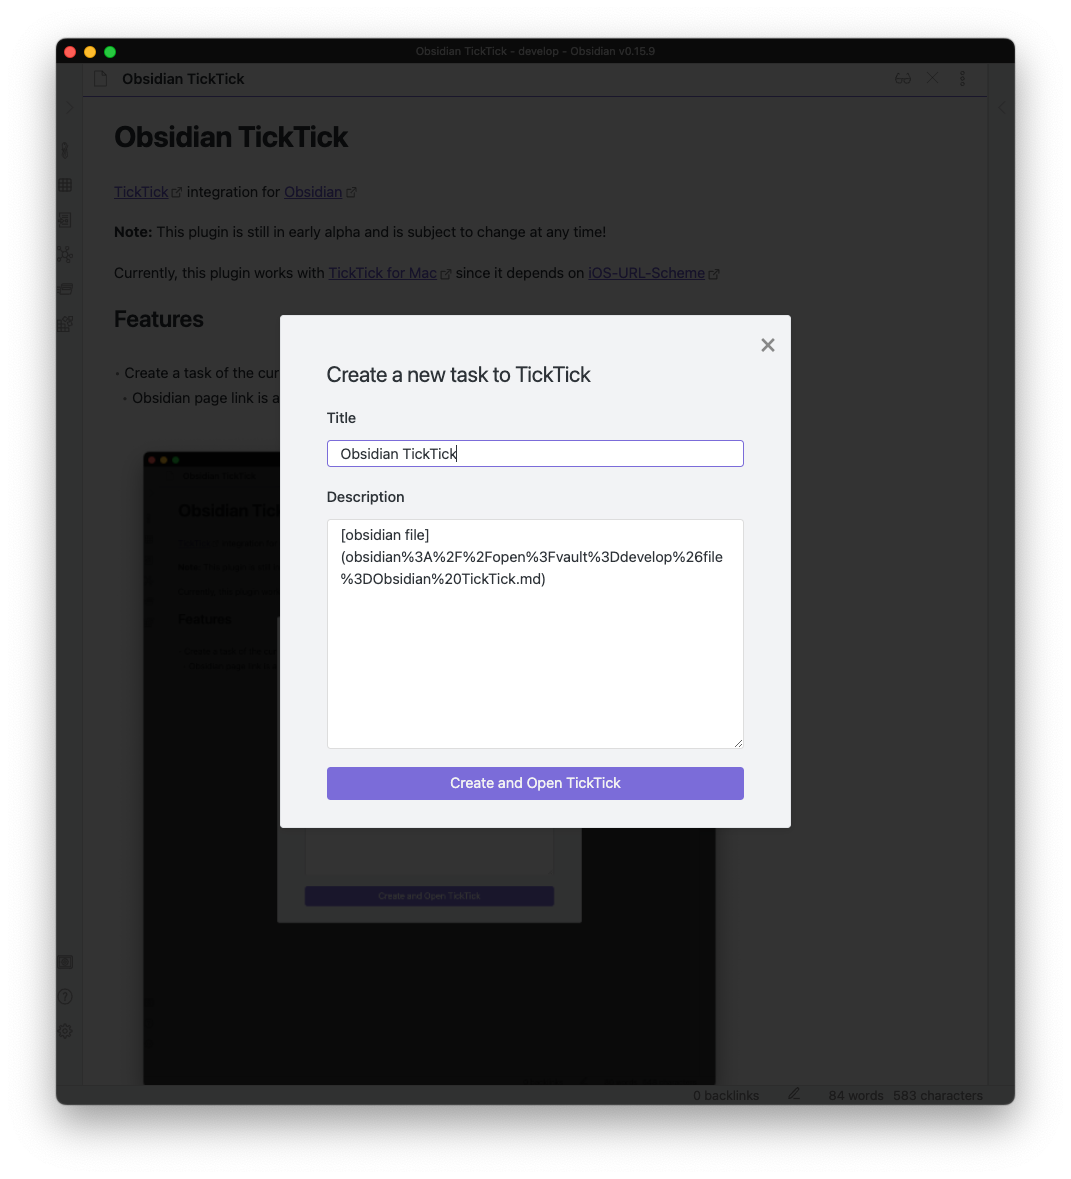
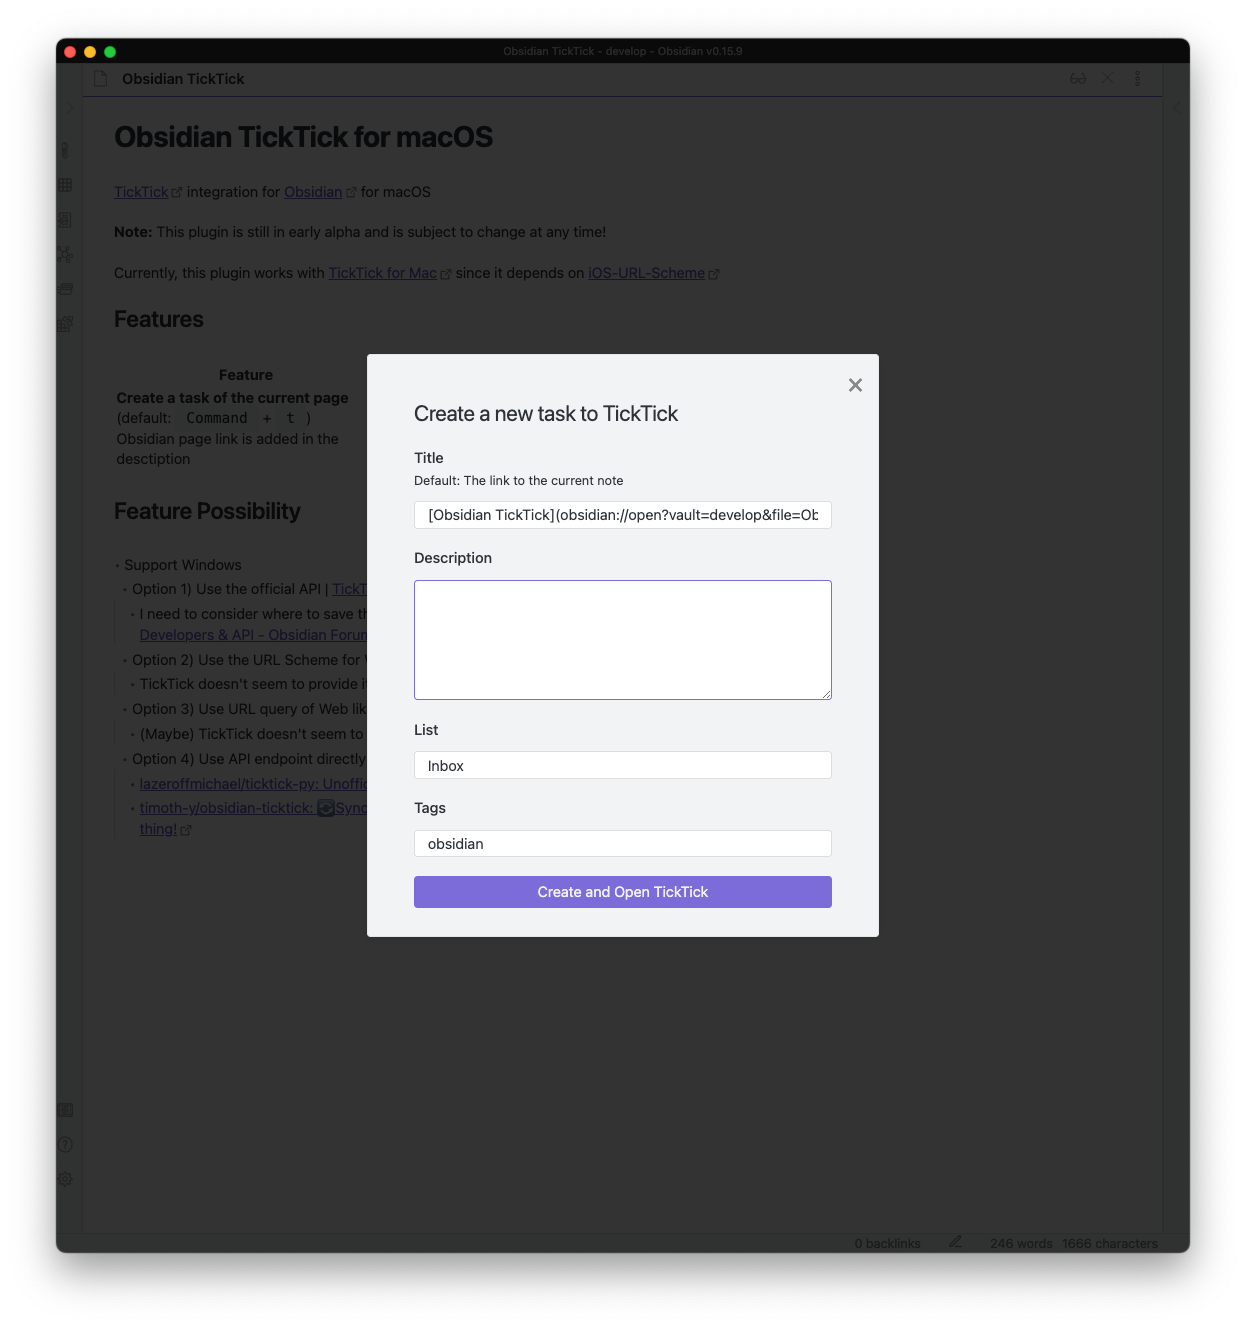
feat: add list and tags fields

Changed region(s): [[0.0308, 0.0305, 0.9552, 0.9466], [0.3697, 0.1832, 0.493, 0.2137], [0.5238, 0.1832, 0.5546, 0.2137]]

diff --git a/src/views/CreateTaskModal.svelte b/src/views/CreateTaskModal.svelte
@@ -2,28 +2,44 @@
   import type { Task } from 'src/model';
 
   export let task: Task;
-  export let onCreateClick: () => void;
+  export let onCreateClick: (task: Task) => void;
 </script>
 
 <h1 class="mb-5 text-2xl">Create a new task to TickTick</h1>
 
 <form>
   <div class="mb-5">
-    <label class="mb-3 block font-medium" for="title">Title</label>
-    <input class="block w-full" type="text" value={task.title} />
+    <label class="mb-1 block font-medium" for="title">Title</label>
+    <p class="mb-3 text-sm ">Default: The link to the current note</p>
+    <input class="block w-full" type="text" bind:value={task.title} />
   </div>
 
   <div class="mb-5">
     <label class="mb-3 block font-medium" for="description">Description</label>
     <textarea
       id="description"
-      rows="10"
+      rows="5"
       class="block w-full px-[14px] py-[5px] focus:border-interactive-accent"
-      value={task.content}
+      bind:value={task.content}
     />
   </div>
 
-  <button class="mod-cta w-full px-[20px] py-[6px]" on:click={onCreateClick}>Create and Open TickTick</button>
+  <div class="mb-5">
+    <label class="mb-3 block font-medium" for="description">List</label>
+    <input class="block w-full" type="text" bind:value={task.list} />
+  </div>
+
+  <div class="mb-5">
+    <label class="mb-3 block font-medium" for="description">Tags</label>
+    <input class="block w-full" type="text" bind:value={task.tags} />
+  </div>
+
+  <button
+    class="mod-cta w-full px-[20px] py-[6px]"
+    on:click={() => {
+      onCreateClick(task);
+    }}>Create and Open TickTick</button
+  >
 </form>
 
 <style global lang="postcss">

diff --git a/src/modal.ts b/src/modal.ts
@@ -1,6 +1,6 @@
 import { App, Modal, TFile } from 'obsidian';
 
-import { generateTikTickCreateTaskContent, generateTikTickCreateTaskURL } from './model';
+import { generateTikTickCreateTaskTitle, generateTikTickCreateTaskURL } from './model';
 import type { Task } from './model';
 import CreateTaskModalComponent from './views/CreateTaskModal.svelte';
 
@@ -10,8 +10,10 @@ export class CreateTaskModal extends Modal {
   constructor(app: App, file: TFile) {
     super(app);
     this.task = {
-      title: file.basename,
-      content: generateTikTickCreateTaskContent(file.path, app.vault.getName()),
+      title: generateTikTickCreateTaskTitle(file.basename, file.path, app.vault.getName()),
+      content: '',
+      list: 'Inbox',
+      tags: 'obsidian',
     };
   }
 
@@ -20,8 +22,8 @@ export class CreateTaskModal extends Modal {
       target: this.contentEl,
       props: {
         task: this.task,
-        onCreateClick: () => {
-          this.onCreate(this.task);
+        onCreateClick: (task: Task) => {
+          this.onCreate(task);
         },
       },
     });
@@ -34,7 +36,7 @@ export class CreateTaskModal extends Modal {
   onCreate(task: Task) {
     // open url
     const url = generateTikTickCreateTaskURL(task);
-    console.debug('create Task:', url);
+    console.debug('create TickTick Task:', url);
     window.open(url);
     this.close();
   }

diff --git a/src/model.ts b/src/model.ts
@@ -15,15 +15,17 @@ export const generateTikTickCreateTaskURL = (task: Task): string => {
   if (task.list) {
     url += `&list=${encodeURIComponent(task.list)}`;
   }
+  if (task.tags) {
+    // NOTE: I'm not sure the way to specify multiple tags.
+    //  If I specify a comma-separated string like `a,b`, it creates three tags `a`, `b`, and `a,b`.
+    //  I'm asking TickTick.
+    url += `&tags=${encodeURIComponent(task.tags)}`;
+  }
   return url;
 };
 
-export const generateTikTickCreateTaskContent = (filePath: string, vault: string): string => {
-  let content = '';
+export const generateTikTickCreateTaskTitle = (title: string, filePath: string, vault: string): string => {
+  const url = `obsidian://open?vault=${encodeURIComponent(vault)}&file=${encodeURIComponent(filePath)}`;
 
-  const url = `obsidian://open?vault=${vault}&file=${filePath}`;
-
-  content += `[obsidian file](${encodeURIComponent(url)})`;
-  content += '\n\n';
-  return content;
+  return `[${title}](${url})`;
 };
